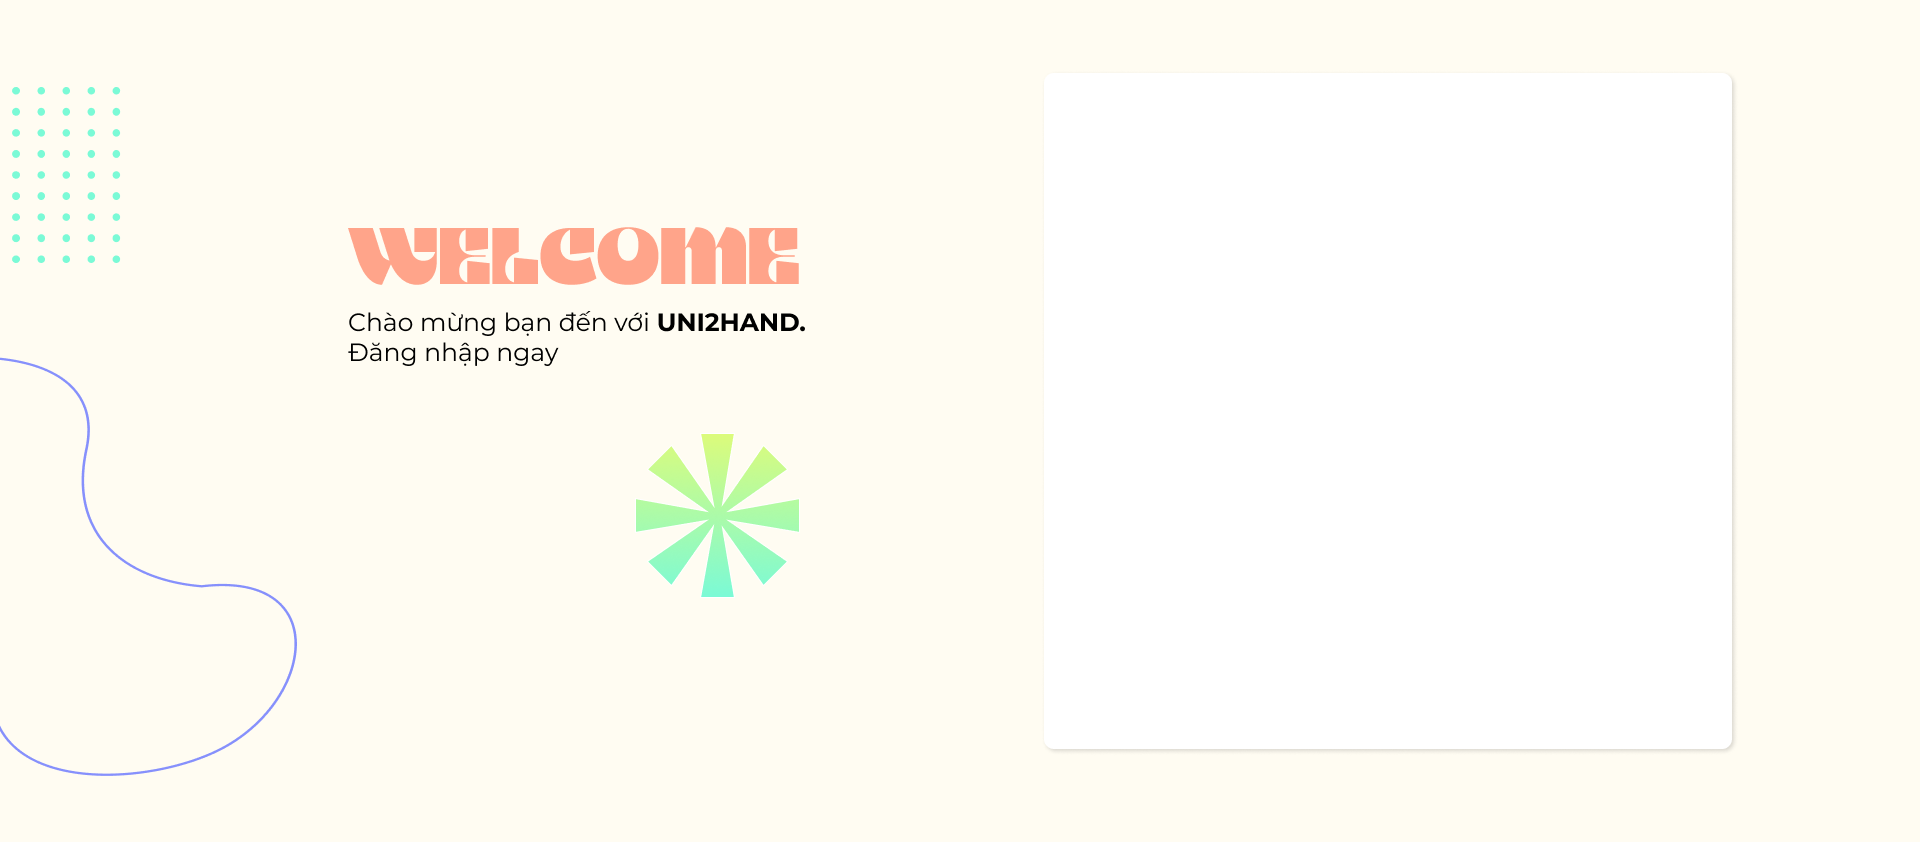
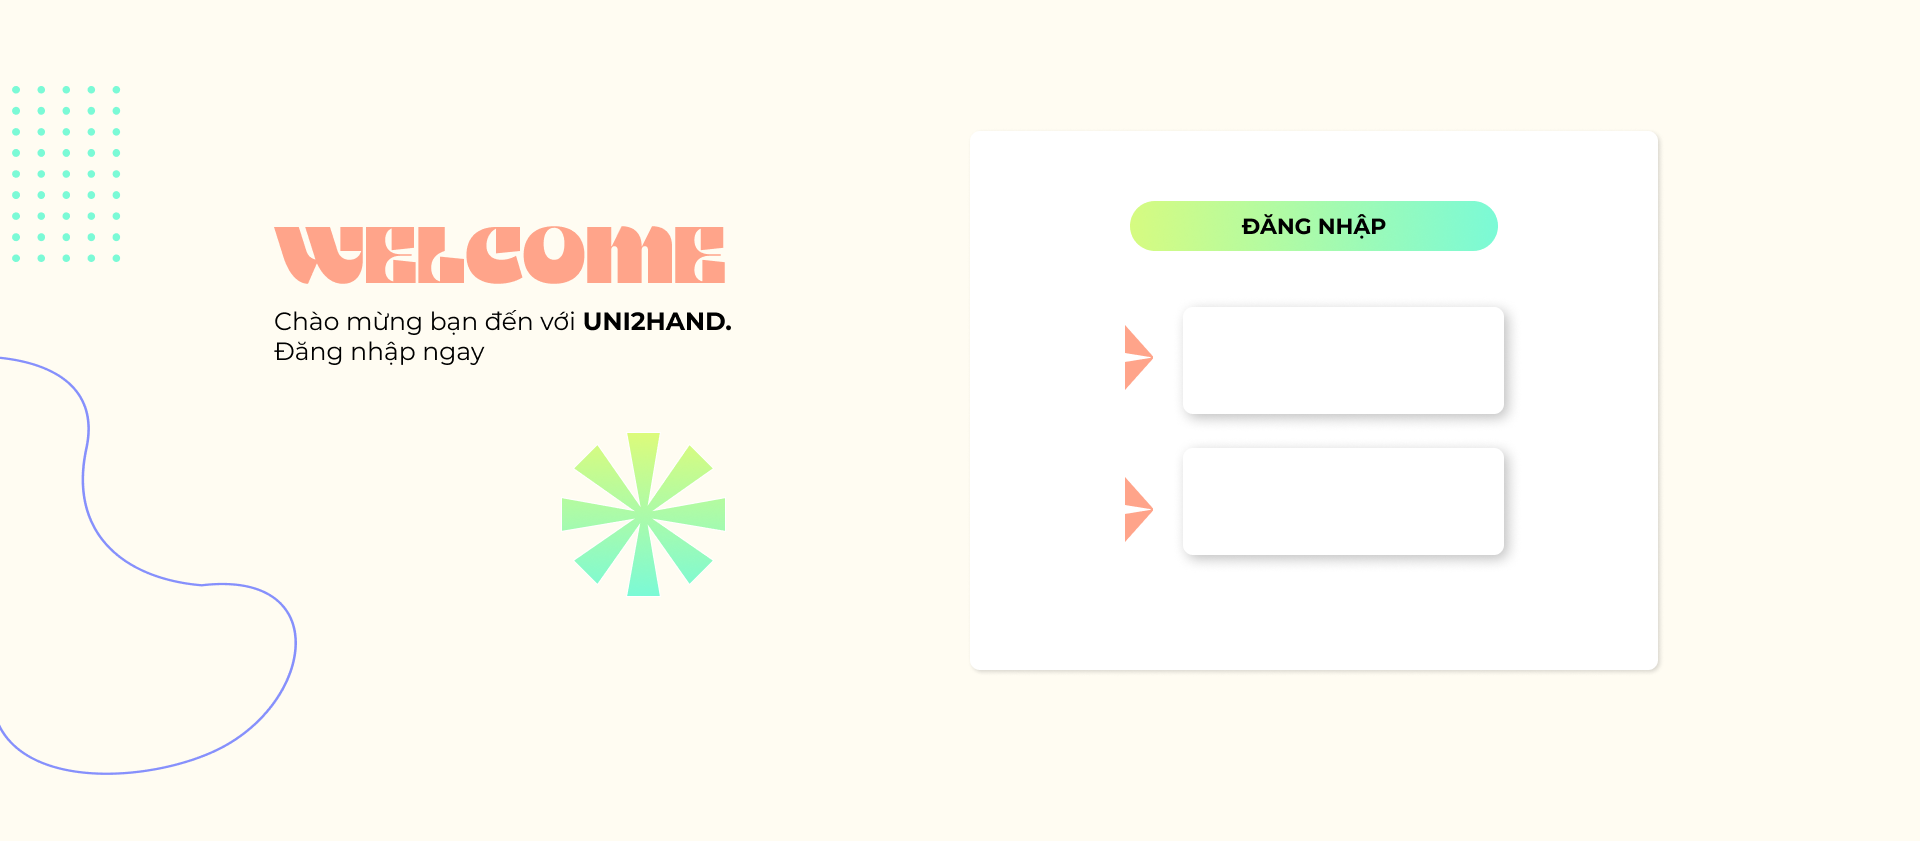
add wallet-page and update account-page

diff --git a/src/components/Account/index.jsx b/src/components/Account/index.jsx
@@ -1,5 +1,8 @@
 import React from "react";
 import { UserAuth } from "../../context/AuthContext";
+import "./styles.scss";
+import { useState } from "react";
+import saveProfileIcon from "../../assets/images/save-profile.png";
 
 const Account = () => {
   const { logOut, user } = UserAuth();
@@ -10,14 +13,65 @@ const Account = () => {
       console.log(error);
     }
   };
+  const [inputValue, setInputValue] = useState("");
+  const handleSubmit = (e) => {
+    e.preventDefault();
+    console.log("Input Value:", inputValue);
+  };
   return (
-    <div>
-      <h1>Account</h1>
+    <header className="custom-account">
       <div>
-        <p>Welcome, {user?.displayName}</p>
+        <div className="profile-detail">
+          <p className="space-account">&nbsp;</p>
+          <div className="title-profile">
+            <h1 className="name-profile">Hồ sơ của tôi</h1>
+          </div>
+          <div>
+            <img className="avatar" src={user.photoURL} alt="Avatar" />
+          </div>
+          <div>
+            <p className="shop-name">CỬA HÀNG CỦA: {user?.displayName}</p>
+          </div>
+          <div>
+            <div className="bio-title">Bio:</div>
+            <div onSubmit={handleSubmit}>
+              <div>
+                <textarea
+                  className="biography"
+                  id="inputField"
+                  value={inputValue}
+                  placeholder="Tui là K18, vì đú trend nên dứt hết đống đồ về nhà, mà mặc mới 1 lần cái hok muốn mặc nữa pùn ghia"
+                  onChange={(e) => setInputValue(e.target.value)}
+                ></textarea>
+              </div>
+            </div>
+          </div>
+          <div>
+            <div className="address-title">Địa chỉ:</div>
+            <div onSubmit={handleSubmit}></div>
+            <div className="address-content">
+              <textarea
+                className="address"
+                id="inputField"
+                value={inputValue}
+                placeholder="S201. Vinhomes Grand Park. Nguyễn Xiển. Phường Long Thạnh Mỹ. Quận 9. Tp Hồ Chí Minh.
+                Trường Đại Học FPT"
+                onChange={(e) => setInputValue(e.target.value)}
+              ></textarea>
+            </div>
+          </div>
+        </div>
+        <div>
+          <button className="save-btn" type="submit">
+            <img
+              src={saveProfileIcon}
+              alt="SaveProfile"
+              className="save-profile-icon"
+            />
+          </button>
+        </div>
       </div>
-      <button onClick={handleSignOut}>Logout</button>
-    </div>
+    </header>
   );
 };
 

diff --git a/src/components/Account/styles.scss b/src/components/Account/styles.scss
@@ -1,0 +1,81 @@
+@font-face {
+    font-family: Montserrat;
+    src: url(../../assets/fonts/Montserrat-SemiBold.ttf);
+    src: url(../../assets/fonts/Montserrat-Regular.ttf);
+    src: url(../../assets/fonts/Montserrat-Medium.ttf);
+  }
+.custom-account{
+    margin-top: 50px;
+    background-image: url(../../assets/images/account-page.png);
+    background-size: cover; 
+    background-position: center; 
+    background-repeat: no-repeat;
+  }
+.profile-detail{
+    width: 1050px;
+    height: 542px;
+    background: #FFFFFF;
+    box-shadow: 2px 2px 5px rgba(0, 0, 0, 0.15);
+    border-radius: 10px;
+    margin: 100px 240px 30px 240px;
+}
+.title-profile{
+    font-family: "Montserrat", sans-serif;
+    font-weight: 600;
+    text-transform: uppercase;
+    font-size: 15px;
+}
+.space-account{
+    padding: 10px;
+}
+.avatar{
+    width: 150px;
+    border-radius: 50%;
+    display: flex;
+    margin-left: 130px;
+}
+.shop-name{
+    font-family: "Montserrat", sans-serif;
+    font-weight: 600;
+    text-transform: uppercase;
+    font-size: 20px;
+    margin: -140px 0px 30px 120px;
+    color: #4D5EE8;
+}
+.bio-title, .address-title{
+    display: flex;
+    margin-left: 405px;
+    font-family: "Montserrat", sans-serif;
+    font-weight: Medium;
+    font-size: 15px;
+}
+.biography{
+    width: 520px;
+    height: 132px;
+    background: #F5F5F5;
+    box-shadow: 1px 2px 5px rgba(0, 0, 0, 0.25);
+    border-radius: 10px;
+    margin: 10px 50px 20px 330px;
+    font-family: "Montserrat", sans-serif;
+    font-size: 14px;
+}
+
+.address{
+    width: 520px;
+    height: 60px;
+    background: #F5F5F5;
+    box-shadow: 1px 2px 5px rgba(0, 0, 0, 0.25);
+    border-radius: 10px;
+    margin: 10px 50px 20px 330px;
+    font-family: "Montserrat", sans-serif;
+    font-size: 14px;
+}
+button.save-btn{
+    border-radius: 100px;
+    border: none;
+    background: #FFFCF2;
+}
+.save-profile-icon{
+    width: 180px;
+    margin-bottom: 50px;
+}

diff --git a/src/components/Login/index.jsx b/src/components/Login/index.jsx
@@ -28,25 +28,24 @@ function LoginFeature() {
     <header className="custom-login">
       <div className="hehe">
         <nav>
-          <p className="login-title">ĐĂNG NHẬP</p>
-          <ul className="detail-login">
-            <li className="google-login">
-              <button onClick={handleGoogleSignIn} className="login-item">
+          <div className="detail-login">
+            <div className="google-login">
+              <button onClick={handleGoogleSignIn} className="login-google">
                 <img src={googleIcon} alt="Google" className="google-icon" />
                 Google
               </button>
-            </li>
-            <li className="facebook-login">
-              <Link to="/login" className="login-item">
+            </div>
+            <div className="facebook-login">
+              <button className="login-facebook">
                 <img
                   src={facebookIcon}
                   alt="Facebook"
                   className="facebook-icon"
                 />
                 Facebook
-              </Link>
-            </li>
-          </ul>
+              </button>
+            </div>
+          </div>
         </nav>
       </div>
     </header>

diff --git a/src/components/Login/styles.scss b/src/components/Login/styles.scss
@@ -41,15 +41,14 @@
   .google-login,
   .facebook-login {
     margin-left: 10px;
-    box-shadow: 0px 4px 4px rgba(0, 0, 0, 0.25);
     border-radius: 10px;
     transform: matrix(1, 0, 0, 1, 0, 0);
     margin-top: 160px;
-    width: 180px;
-    height: 60px;
-    background: #ffffff;
-    box-shadow: 1px 2px 4px rgba(0, 0, 0, 0.25);
+    width: 250px;
+    height: 80px;
+    background: none;
   }
+  
   
   .facebook-login {
     margin-left: 20px;
@@ -58,7 +57,7 @@
     text-decoration: none;
   }
   
-  .login-item {
+  .login-google, .login-facebook {
     display: flex;
     justify-content: center;
     align-items: center;
@@ -70,6 +69,15 @@
     font-family: "Montserrat", sans-serif;
     font-weight: 600;
     font-size: 16px;
+    
+  }
+  .login-google{
+    margin-left: 165px;
+    margin-top: 55px;
+  }
+  .login-facebook{
+    margin-left: -100px;
+    margin-top: 160px;
   }
   
   .google-icon,

diff --git a/src/App.js b/src/App.js
@@ -18,6 +18,7 @@ import LoginFeature from "./components/Login";
 import { AuthContextProvider } from "./context/AuthContext";
 import Protected from "./components/Authentication/protected";
 import Account from "./components/Account";
+import WalletFeature from "./components/Wallet";
 
 function NavigateToPost() {
   const { postId } = useParams();
@@ -39,6 +40,8 @@ function App() {
             <Route path="/todo-list" element={<TodoFeature />} />
             <Route path="/products" element={<ProductFeature />} />
             <Route path="/members" element={<MemberFeature />} />
+            <Route path="/wallet" element={<WalletFeature />} />
+            <Route path="/account" element={<Account />} />
             <Route path="/" element={<HomeDetail />} />
             <Route path="/login" element={<LoginFeature />} />
             <Route path="/home" element={<Navigate to="/" replace />} />

diff --git a/src/components/Wallet/styles.scss b/src/components/Wallet/styles.scss
@@ -1,0 +1,30 @@
+@font-face {
+  font-family: Montserrat;
+  src: url(../../assets/fonts/Montserrat-SemiBold.ttf);
+  src: url(../../assets/fonts/Montserrat-Regular.ttf);
+}
+header {
+  background-color: #fffcf2;
+}
+
+.custom-wallet {
+  background-image: url(../../assets/images/wallet-page.png);
+  background-size: cover; /* Sử dụng cover để đảm bảo ảnh nền tràn đầy */
+  background-position: center; /* Căn giữa ảnh nền */
+  background-repeat: no-repeat;
+}
+.space-wallet{
+    padding-top: 300px;
+    padding-bottom: 300px;
+    margin-top: 70px;
+}
+button.deposit-btn{
+    border-radius: 100px;
+    border: none;
+    background: #FFFCF2;
+}
+.deposit-coin-icon{
+    width: 300px;
+    margin-bottom: 70px;
+    margin-bottom: 20px;
+}

diff --git a/src/components/Wallet/index.jsx b/src/components/Wallet/index.jsx
@@ -1,0 +1,26 @@
+import "./styles.scss";
+import depositCoinIcon from "../../assets/images/deposit.png";
+import { NavLink } from "react-router-dom";
+
+WalletFeature.propTypes = {};
+
+function WalletFeature() {
+  return (
+    <header className="custom-wallet">
+      <p className="space-wallet">&nbsp;</p>
+      <div>
+        <button className="deposit-btn" type="submit">
+          <NavLink to="/home" activeClassName="active-wallet">
+            <img
+              src={depositCoinIcon}
+              alt="DepositCoin"
+              className="deposit-coin-icon"
+            />
+          </NavLink>
+        </button>
+      </div>
+    </header>
+  );
+}
+
+export default WalletFeature;
